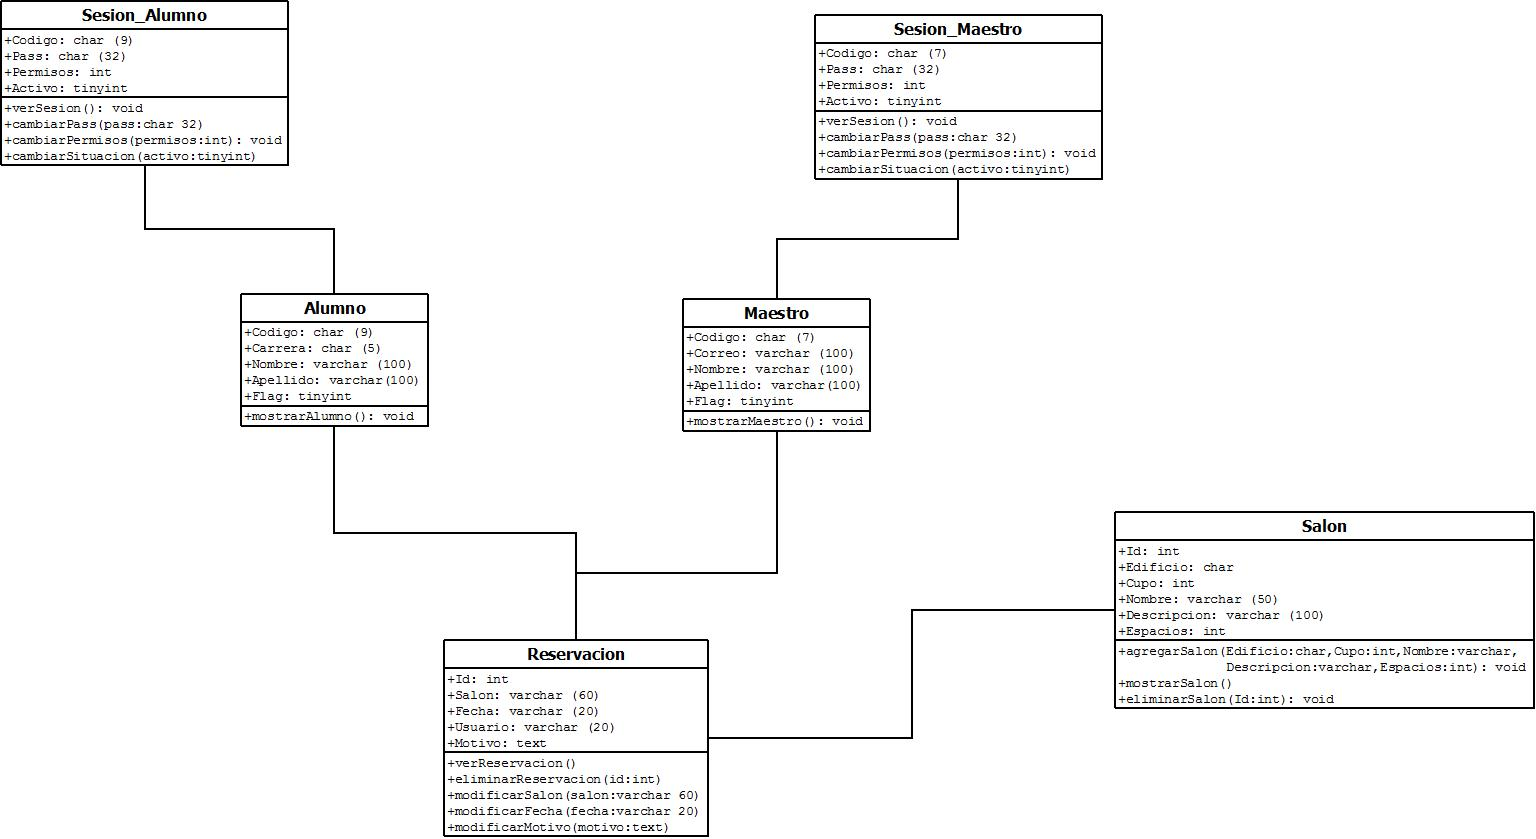
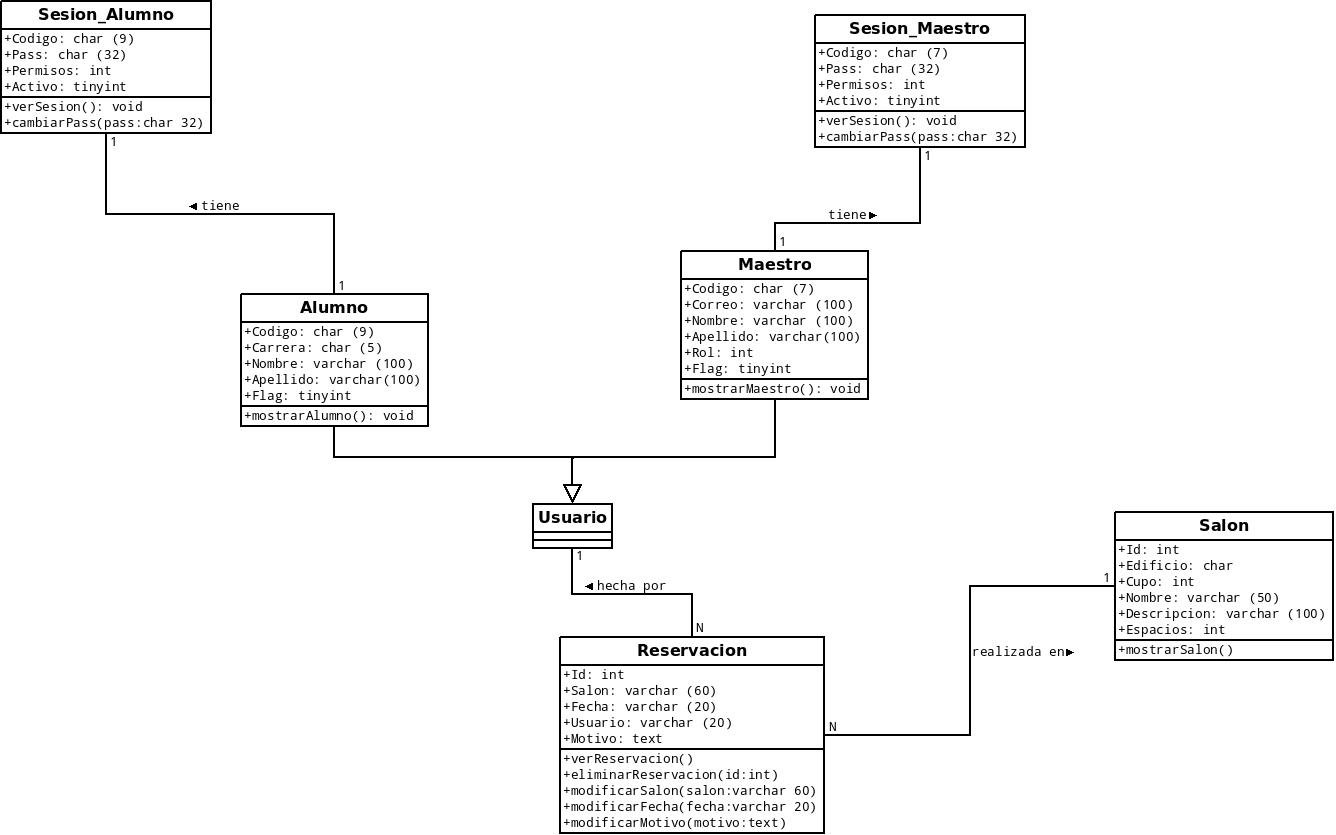
Modificacion a Diagrama de clases fuente e imagen y mejora a la descripcion del proyecto README

diff --git a/README.md b/README.md
@@ -8,33 +8,60 @@ Nancy Michelle Torres Villanueva
 Programacion Web
  ·······························
 
-- Descripción del Proyecto -
+SISTEMA DE RESERVACIONES EN LINEA
+
 
 	El proyecto a manejar es un sistema de reservaciones de aulas y auditorios para la División de Electrónica y Computación, 
 	el cual se realiza bajo la supervisión y encargo del coordinador de Ing. En Computación.
 
 	El proyecto inicia con un sistema alojado en la página del servidor de la División:
-	alanturing.cucei.udg.mx/divec  
+	alanturing.cucei.udg.mx/divec
 
-	Desde ahí se debe acceder al calendario actual de ciclo y requerir un usuario y contraseña para ingresar al sistema 
-	distinguiendo usuarios entre maestros, alumnos, directivos, administrativos e invitados.
+		*Acceder al calendario actual de ciclo
+		*Requiere un usuario y contraseña para ingresar al sistema 
+		distinguiendo usuarios entre maestros, alumnos, administrativos e invitados.
 
-	Una vez autenticado el usuario y la contraseña comparándolo con los registros de la base de datos se muestra la pantalla 
-	de reservaciones.
+		*Una vez autenticado el usuario y la contraseña comparándolo con los registros de la base de datos se muestra la pantalla 
+		de reservaciones.
+
+BASE DE DATOS
 
 	La base de datos es centralizada, unida a la base de datos de otros sistemas de la división a la cual no se pueden hacer 
 	mayores modificaciones debido a la perdida de integridad en otros sistemas. Está estructurada en mysql con phpmyadmin 
 	como gestor de administración.
+	
+HACER UNA RESERVACION
 
-	El sistema debe poder mostrar el nombre de la persona autenticada en el sistema o pedir estos datos en caso de ser invitados. 
-	Se muestra el nombre y se solicita llenar un formulario con la información requerida para la reservación de un espacio que 
-	se elige de una lista ya predefinida rescatada de la base de datos.
-	Se debe revisar el horario de la reservación y el lugar para que no existan reservaciones solapadas, así como revisar la 
-	fecha de término para que no sea anterior a la fecha de inicio.
+	Una vez entrada a la pagina de la reservacion, ya se tiene el nombre de la persona que hace dicho movimiento por medio de la
+	identificacion previa en el ingreso al sistema.
+	Se pediran los datos requeridos para la reservacion
+		*Seleccion de lugar
+		*Fecha de inicio y Fecha de fin o término
+		*Hora de inicio y hora final
+	
+	En caso de ser un laboratiorio el que se reserva se debe seleccionar (en caso de necesitarlo)
+	la cantidad de maquinas a utilizar e indicar cuales serán las seleccionadas. Puede ser desde 1 
+	hasta la cantidad de maquinas disponibles en el aula
 
-	Si se desea cancelar una reservación se debe consultar con el administrador del sistema para que este haga la respectiva 
-	liberación del espacio en la agenda de la reservación
+CANCELAR UNA RESERVACION
+	
+	Se debe estar autenticado con el ROL de Administrador de sistema. Una vez validado se selecciona
+	el evento que se desea cancelar, se pide verificacion de lugar, fecha, hora y evento antes de cancelar.
+	
+	En el caso de los laboratorios se puede cancelar por evento o por numero de maquinas a utilizar
+	osea, dar de baja algunos equipos solamente y no todo el evento en general
+	
+VER UNA RESERVACION
+	
+	Una vez entrando al sistema se muestran todas las reservaciones hechas hasta el momento, la fecha
+	hora y el responsable del evento. 
+	
+ALTAS, BAJAS Y MODIFICACIONES DE ALUMNOS, MAESTROS y SALONES
+	
+	El administrador del sistema es el unico que puede realizar estas operaciones
+	el ROL de Administrador se otroga a la persona que en su momento esté designada para el cargo
+	y solo un Adminstrador puede designar a otra persona el ROL o dar de baja administradores
+	
+	
 
-	En cuanto a las aulas que contienen maquinas, estas aulas se pueden apartar por separado con un cierto número de equipos 
-	dejando otros disponibles a la misma hora en el mismo salón. Se debe considerar el número y la posición de las maquinas 
-	reservadas para dejar libres las correspondientes.
+	
